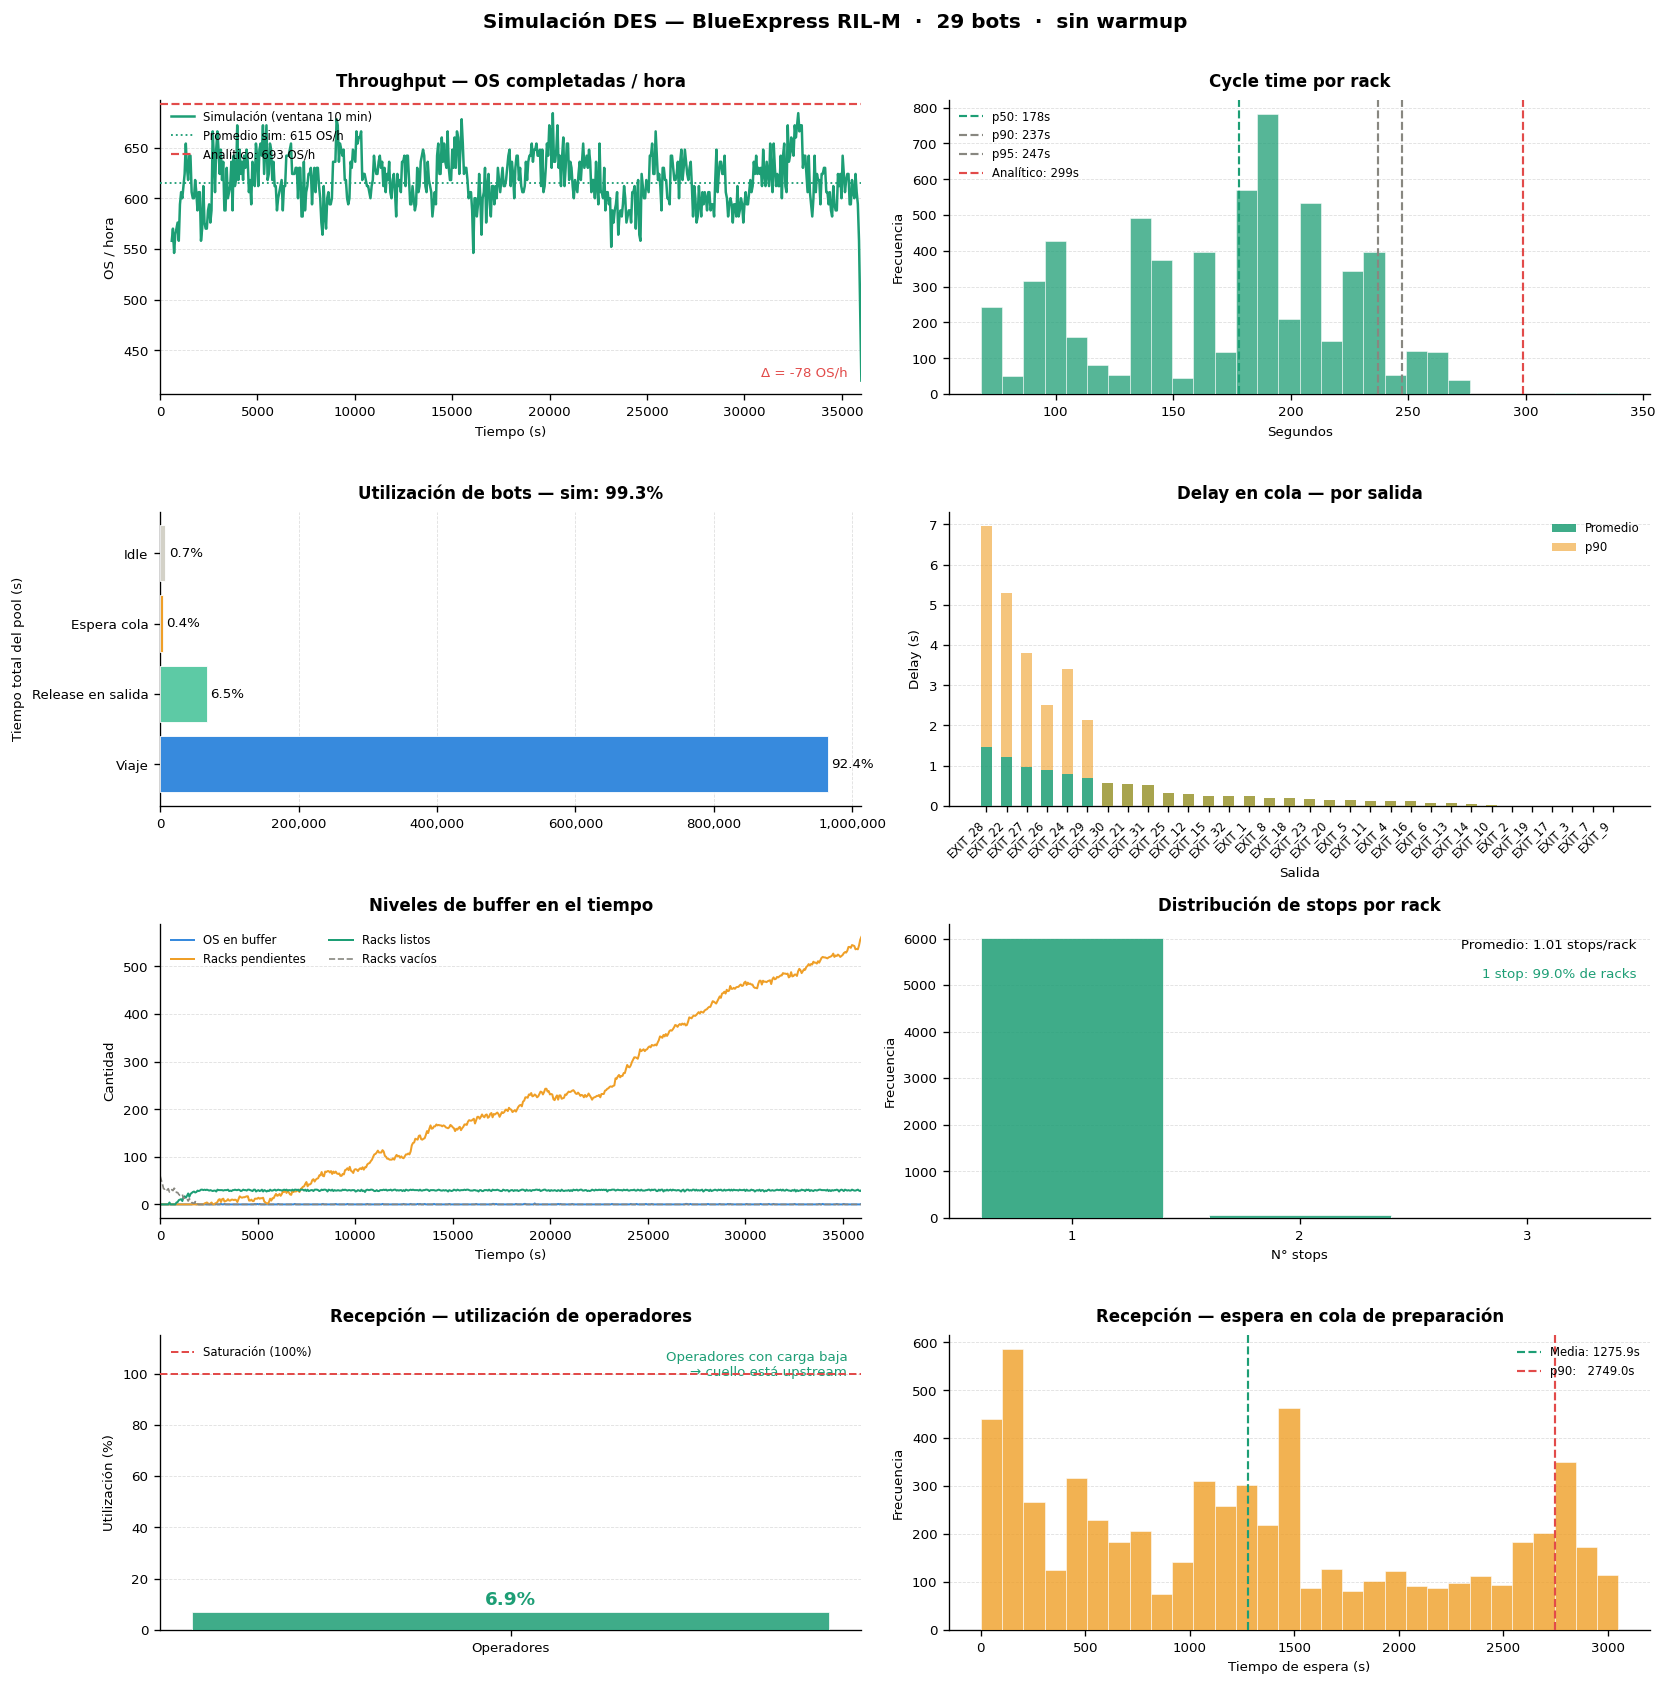
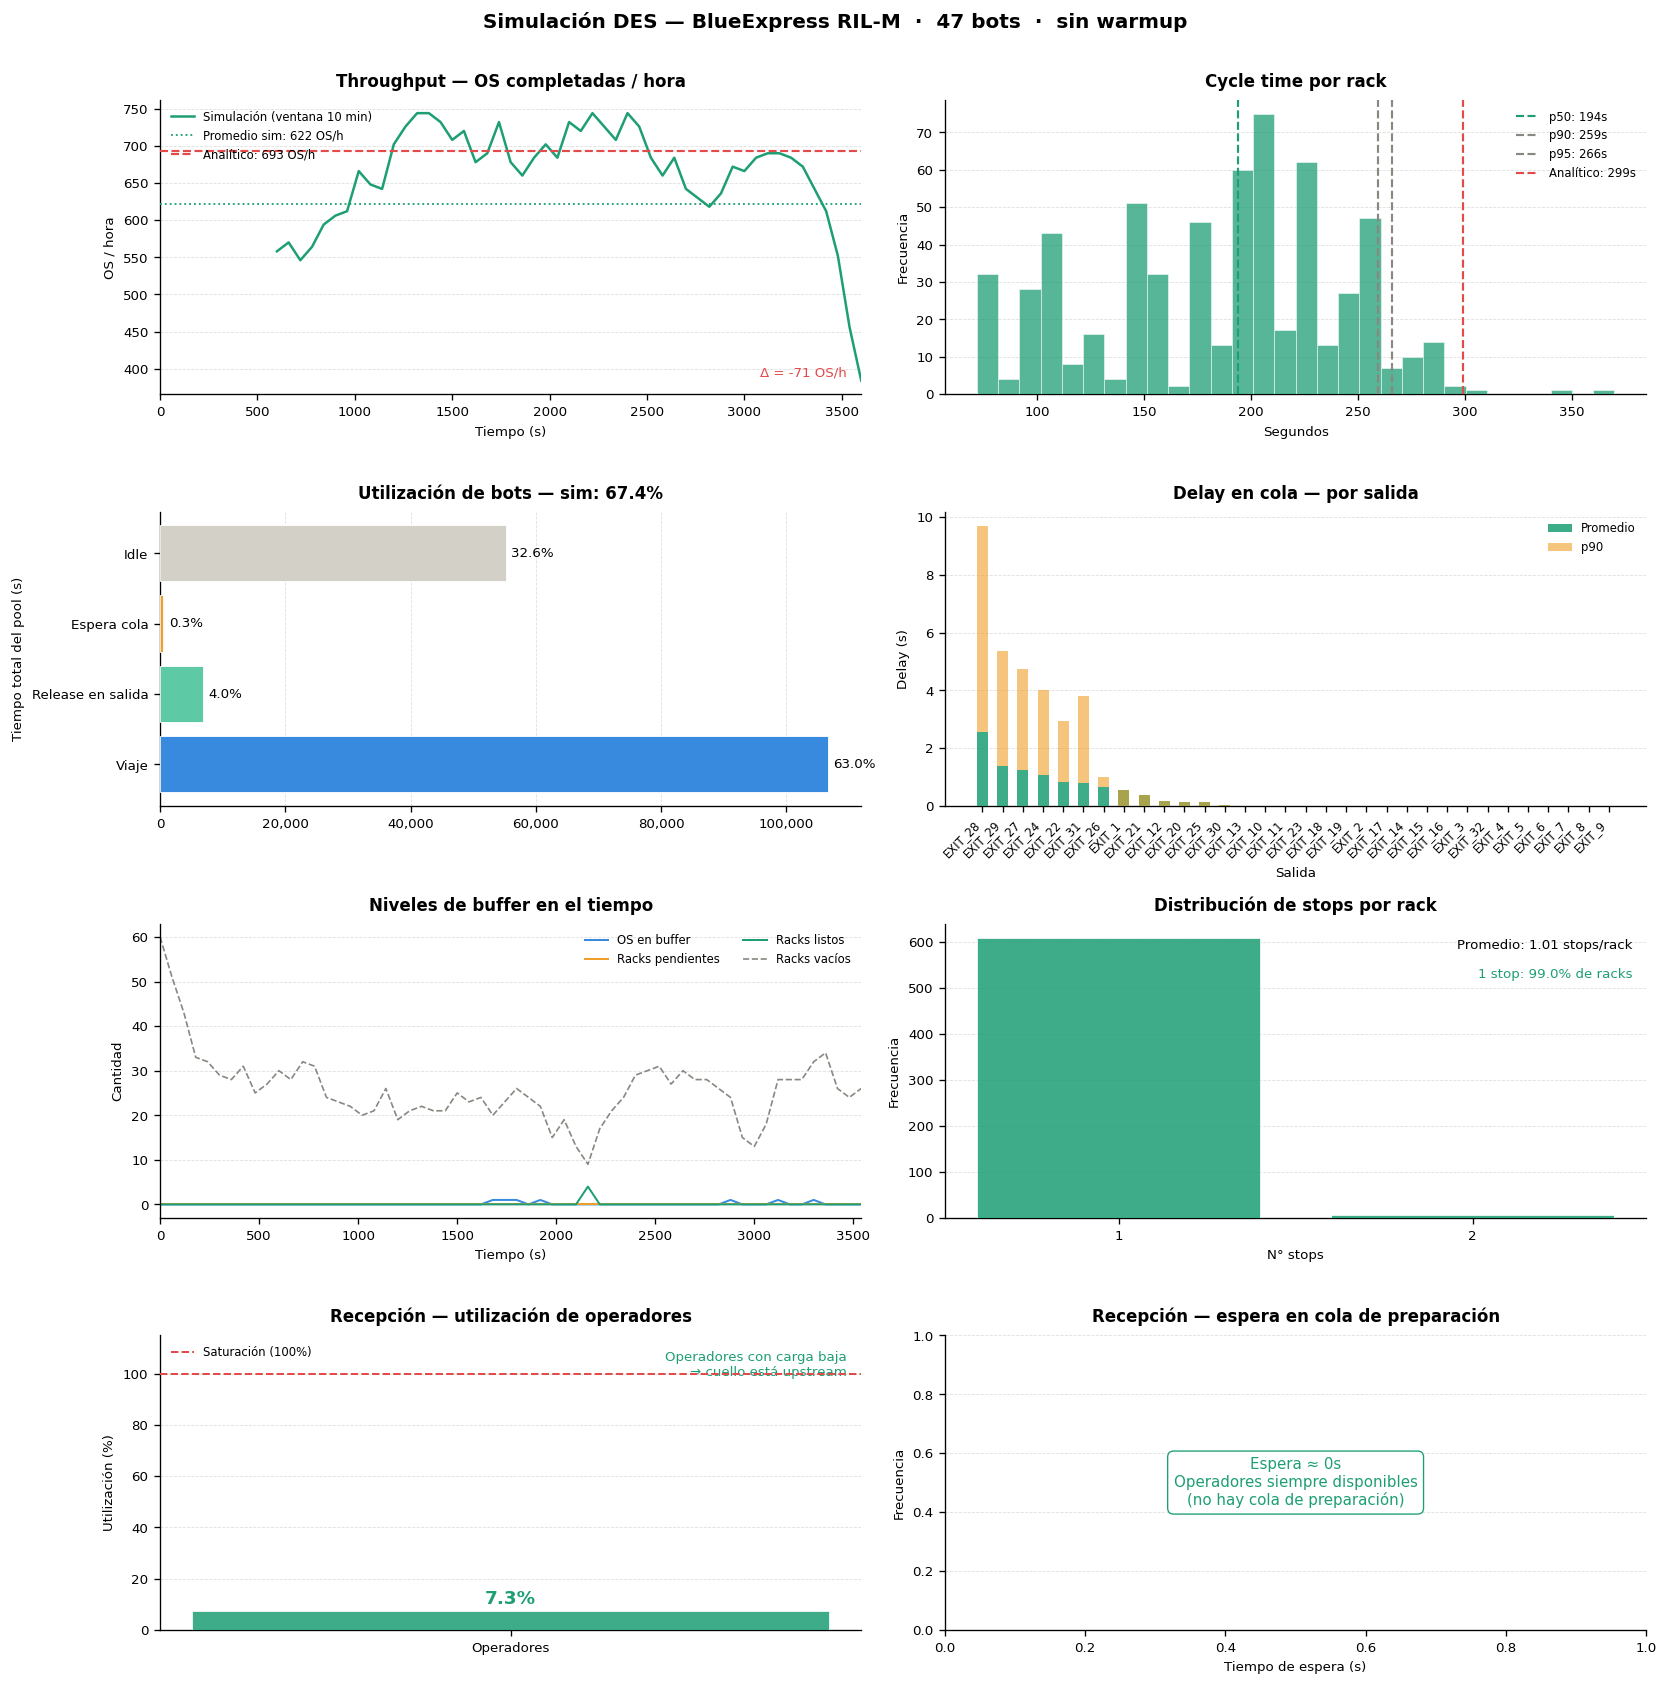
fix: update effective speed in peak configuration for improved simulation accuracy

diff --git a/src/config.py b/src/config.py
@@ -11,7 +11,7 @@ def build_peak_config() -> SimulationConfig:
         n_receiving_operators=20,
         empty_rack_initial_inventory=60,
         random_seed=42,
-        effective_speed_mps=1,
+        effective_speed_mps=0.9,
         pallet_load_unload_time_s=30.0,
         turn_time_s=5.0,
         exit_queue_capacity=None,

diff --git a/README.md b/README.md
@@ -61,6 +61,8 @@ Estimación: 2 – 4 horas
 
 Dependencias: ninguna
 
+BLOQUE 1 LISTO, VALIDADAS DISTRIBUCION DE OS POR SALIDA, Y DIST DE SEGMENTOS POR SALIDA. SOLO FALTA VALIDAR LAS DISTANCIAS Y TIEMPOS DE VIAJE.
+
 🟠 BLOQUE 2 — Lógica operativa 4. Validación de movimiento de bots (CRÍTICO)
 
 Prioridad: Alta
